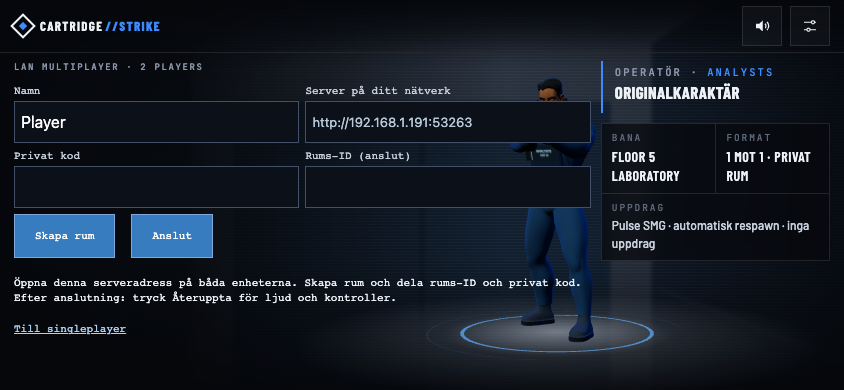
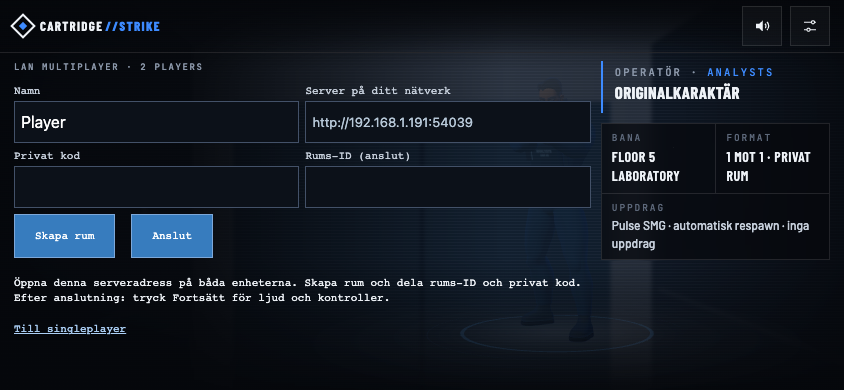
Separate LAN fullscreen gestures and stabilize cross-platform browser checks

diff --git a/docs/multiplayer/pass3a2-lan.md b/docs/multiplayer/pass3a2-lan.md
@@ -65,10 +65,13 @@ Padding boundaries, random bytes, Unicode, a million-byte vector and exact Floor
 bytes match Node's SHA-256. No crypto/browser global is replaced or weakened.
 
 The existing desktop input and mobile controls remain. Production joins enter
-the menu on both desktop and mobile; **Återuppta** supplies a fresh gesture for
+the menu on both desktop and mobile; **Fortsätt** supplies a fresh gesture for
 audio and mouse capture. The form also unlocks audio directly on submission.
-Resume requests pointer lock before fullscreen. Unsupported/rejected fullscreen
-does not prevent play; promise and event pointer-lock failures return to the menu.
+LAN Resume requests pointer lock without an automatic fullscreen transition;
+fullscreen is an explicit action in the existing menu. This keeps the mouse/audio
+gesture separate from fullscreen focus/orientation changes, while preserving
+offline automatic fullscreen. Unsupported/rejected fullscreen does not prevent
+play; promise and event pointer-lock failures return to the menu.
 Audio unlock handles Safari's `interrupted` state as well as `suspended`.
 
 The compact form uses 16 px editable input text, touch-sized actions, safe-area
@@ -104,12 +107,14 @@ bind an actual assigned private IPv4 and assert `isSecureContext === false` and
 | Offline state/events | PASS, eight unchanged hashes and shot counts across 9,600 steps against merged 3A.1 |
 | Chromium desktop + Chromium touch over private-IP HTTP | PASS, simultaneous move/look/fire reaching authority, reload, rotation, audio suspend/resume, wrong code, real WS termination, rejoin and restart |
 | Chromium desktop + WebKit touch over private-IP HTTP | PASS, same lifecycle and gameplay-input checks; WebKit reports no fullscreen support and remains playable |
+| Normal launch without game hooks, native + software renderer | PASS, actual keys/mouse, first Resume pointer lock, reload HUD, input after explicit fullscreen, independent leave |
 | Full Floor 5 combat, ordered jitter and 20 + 4 rendered leave/rejoins | PASS, direct private-IP HTTP and approximately 100 ms RTT/jitter; [full browser evidence](lan/full-floor5-browser.json) |
 | Linux / Windows / macOS CI | Required final-head jobs tracked on the PR, not inferred from local passes |
 | Physical Pi/Bookworm ARM64, physical iPhone/Android, Windows interactive desktop, two physical LAN devices | NOT RUN |
 
 Raw local evidence: [Chromium touch](lan/chromium-chromium.json),
 [WebKit touch](lan/chromium-webkit.json), [normal launch](lan/normal-launch.json),
+[software normal launch](lan/normal-launch-software.json),
 [offline replay](lan/offline-replay.json).
 Rendered review: [landscape lobby](lan/chromium-lobby.png),
 [WebKit gameplay without fullscreen](lan/webkit-game.png).
@@ -161,6 +166,24 @@ Only small JSON/screenshots are retained for seven days. The build generator
 normalizes asset paths on Windows; CI checks out committed LF bytes there so
 compatibility hashes do not change with Git line-ending conversion. Source
 maps/assets remain unchanged.
+
+The normal-launch regression also isolates each human's browser/GPU process,
+as the existing full-map harness does. Real keys/fire stay held until the
+authority observes them within a bounded deadline: a fixed 250 ms press can
+fall entirely between software-rendered frames. It still requires pointer lock,
+reload HUD and independent leave behavior without `?test` or game hooks. The
+cross-platform harness waits for application readiness after DOMContentLoaded,
+rather than a window load event that can wait on unrelated media. Failed launch
+checks preserve focus/pointer-lock events and pending asset requests for diagnosis.
+Normal launch checks windowed input first, then explicitly enables fullscreen and
+proves mouse capture and keyboard movement again. This caught an intermittent
+input interruption during simultaneous automatic fullscreen/Resume; LAN now
+keeps those gestures separate. No game state or input handler is substituted.
+Run 44163961251 completed the direct combat/20-cycle scenario, then reached the
+delayed scenario's final reload before its ten-minute step deadline. The step
+budget is now twelve minutes and the combined job thirty-two; no assertions or
+offline suites were removed. Software-renderer frame rate remains outside the
+performance acceptance claim.
 
 No running Pi service, router, tunnel or public listener was changed. The new PR
 is for review and must not be automatically merged. After its review/merge, the

diff --git a/docs/multiplayer/raspberry-pi-lan-sv.md b/docs/multiplayer/raspberry-pi-lan-sv.md
@@ -95,16 +95,17 @@ konflikterande namnen där innan du startar, och spara filen för rollback förs
    inte. GitHub Pages-länken ska inte användas mot Pi:n.
 2. På Mac: fyll i namn och en privat kod (6–64 bokstäver/siffror/bindestreck),
    välj **Skapa rum**. På iPhone: skriv samma kod och det exakta rums-ID som
-   visas på Macens HUD/meny, välj **Anslut**. Tryck **Återuppta** på båda.
+   visas på Macens HUD/meny, välj **Anslut**. Tryck **Fortsätt** på båda.
 3. Mac/Windows: WASD, mus, vänsterklick, R, Space, Ctrl och Shift. Escape öppnar
-   menyn och släpper musen. Återuppta kräver ett nytt klick för muslås/ljud.
-   Helskärm är frivilligt. iPhone/Android: liggande skärm, vänstertumme för
+   menyn och släpper musen. Fortsätt kräver ett nytt klick för muslås/ljud.
+   Helskärm är frivilligt: välj **Aktivera helskärm** i menyn och sedan Fortsätt.
+   iPhone/Android: liggande skärm, vänstertumme för
    rörelse, högertumme för sikte, ELD/LADDA/HOPP/HUKA. Safari kan sakna vanlig
    helskärm; spelet fungerar i fliken med säkra skärmkanter.
 4. Möt varandra på Floor 5. Prova samtidiga rörelser, sikte, skott, omladdning,
    dörrar, träffar, död/respawn och poäng. När en spelare öppnar menyn fortsätter
    den andra och servern; den pausade spelaren är fortfarande sårbar.
-5. Rotera, byt app och återvänd. Tryck Återuppta och kontrollera ljudet. Bryt
+5. Rotera, byt app och återvänd. Tryck Fortsätt och kontrollera ljudet. Bryt
    Wi-Fi kort och anslut igen. Efter ett avbrott krävs **explicit återanslutning**;
    ingen poäng-/platsgaranti ges. Efter serveromstart skapas ett nytt rum.
 

diff --git a/HANDOVER.md b/HANDOVER.md
@@ -1,6 +1,6 @@
 # Cartridge-Strike 2 handover
 
-**Next multiplayer task — review PASS 3A.2 on `feat/multiplayer-lan`, its final-head CI and [LAN report](docs/multiplayer/pass3a2-lan.md). Do not automatically merge the new PR.**
+**Next multiplayer task — review [PASS 3A.2 PR #21](https://github.com/capstere/Cartridge-strike2/pull/21) on `feat/multiplayer-lan`, its final-head CI and [LAN report](docs/multiplayer/pass3a2-lan.md). Do not automatically merge the new PR.**
 
 PR #20 was reviewed at `11b585f`, with both final required jobs successful and
 fresh local core/server/normal-launch checks passing, then merged as **bac0756**.
